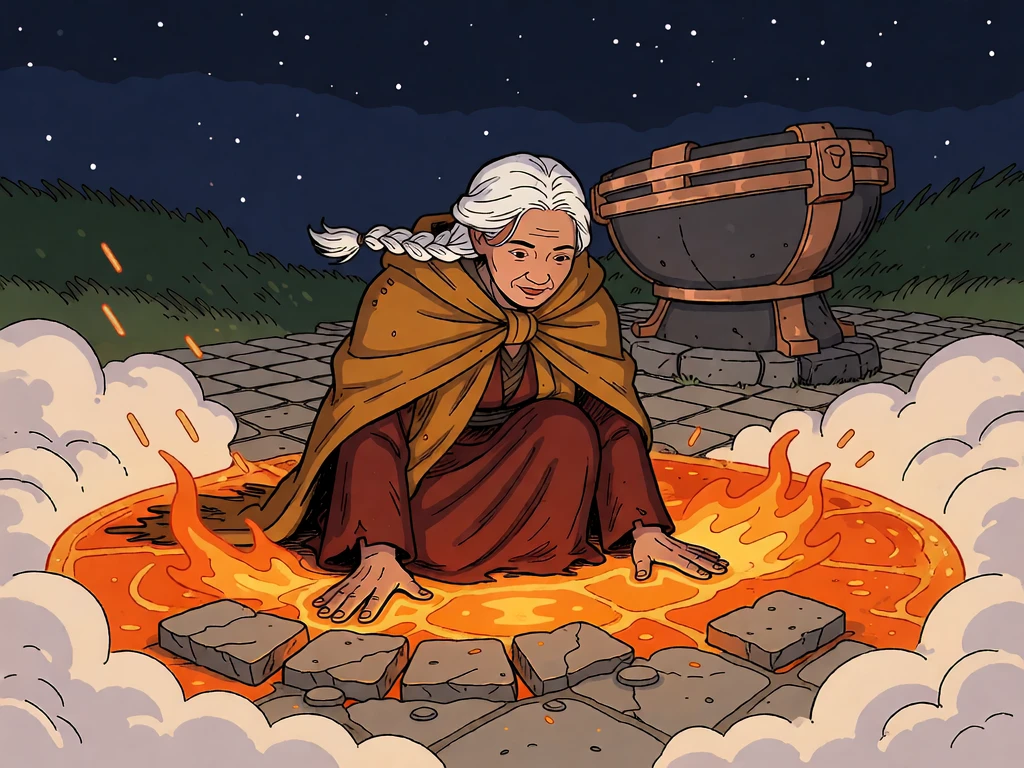
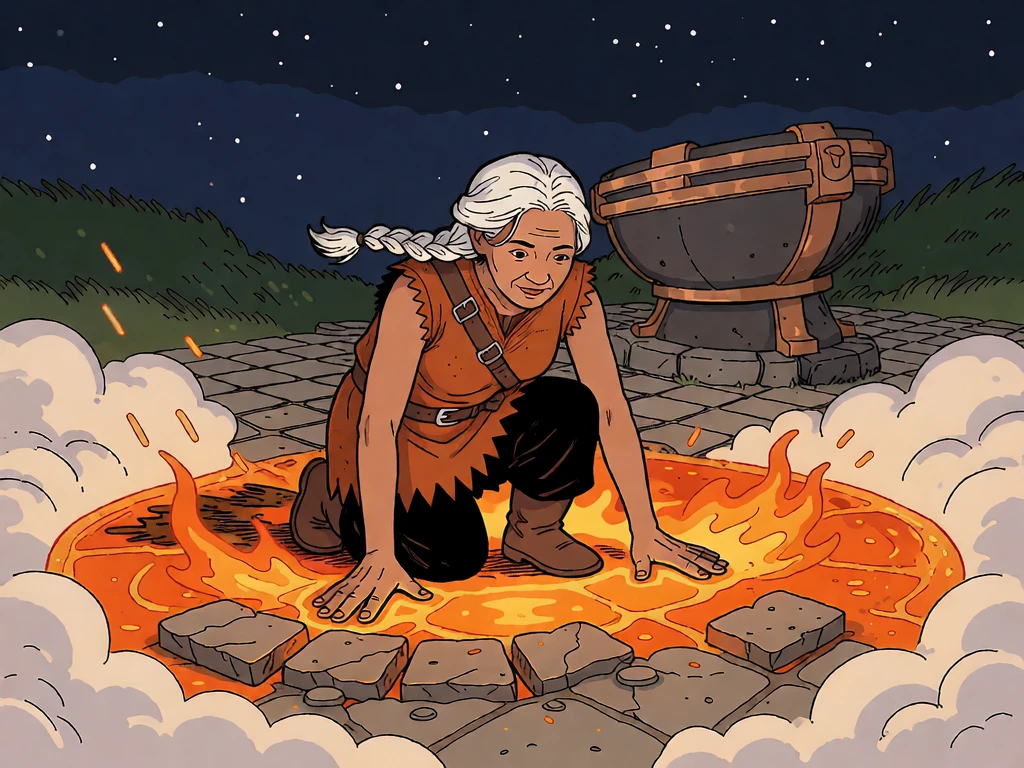
Landing pictures: Hesta in her gear; the villagers whole, before her house and the lake
Claude-Session: https://claude.ai/code/session_01JTmPYBGE5RJi7qTbK5Qior

diff --git a/CREDITS.md b/CREDITS.md
@@ -15,7 +15,7 @@ subscription-only billing so no Spark was spent. Sources are in the project file
 | faces/&lt;who&gt;-&lt;mood&gt;.webp (story portraits: Hesta 3 moods, Lumi 6, Rook 4, Nell 6, Sefa 7, Kes 5; Kes's are drafts from the cast art thread, `sogni/lanternfall/production/kes/game/`, 2026-11-24) | Mood faces (Lumi's calling, grudging and delighted redrawn closed-mouth on 2026-11-23) from the cast art thread (project files `sogni/lanternfall/production/<who>/face-*.png`, 2026-11-23), resized to 160 px WebP |
 | stills/r8-{1,2,7,10,11a,11b}.webp (run 8's reaction stills: Tilda steady, Tilda and Rook at the far well, Rook asking for Granny (redrawn the same day, more concerned, at Ladi's word), the count book, Tilda asking, Rook with no answer) | Drafts drawn by the gameplay thread with krea2_identity_edit_v1_2 on Sogni, 2026-11-24, on Ladi's plan, 0 Spark (project files `gameplay/stills/run8/`), 1024 by 768 as delivered. | The stills panel over the Sieve (`src/engine/stills.ts`) |
 | stills/r8-5.webp, stills/r8-6.webp (run 8's reaction stills at the tug: Tilda lost with Rook uneasy behind her; Tilda watching, Rook looking down) | Drawn by the cutscene thread on Sogni, 2026-11-24, on Ladi's plan; Ladi approved them at 10:44 AM ("Faces look good"). Every step with krea2_identity_edit_v1_2 on the subscription, 0 Spark, as that thread confirmed from its render logs (Tilda alone, Rook added behind her, the face changes on head crops), from the project's own persona sheets lf-tilda and lf-rook-high-grounds; the face transplants, Tilda's chalk smudge and Rook's enlarging are its own script and hand work, no model (sources `sogni/lanternfall/production/story/run8-stills/s5-closer.png` and `s6-closer.png`; delivered in project files `gameplay/stills/run8/`), 1024 by 768 as delivered | The stills panel over the Sieve: 5 as the tug takes hold, 6 cross-fading over it when the tug ends |
-| stills/r6-land-{1,2,3}.webp (run 6's landing pictures: the crowd looking up with Lumi in front, the comet over the island, Hesta landing in the glass) | Drafts drawn by the gameplay thread on Sogni, 2026-11-24, on Ladi's plan, 0 Spark, all with krea2_identity_edit_v1_2; picture 2 redrawn the same day from the game's own island; picture 1 redrawn on 2026-11-25 by the cutscene thread with the cast from their personas (`r6-land-1-cast`, not seen by Ladi yet); picture 3 redrawn on 2026-11-25 by the cutscene thread on Ladi's notes, Hesta alone on the Kindling ground drawn from the game's own map, close, with a wide crater (`r6-land-3-big`, 0 Spark, not seen by Ladi yet) (project files `gameplay/stills/run6/`), 1024 by 768 as delivered | The held pictures of the landing between runs 6 and 7; picture 2 shows only with `?stillsonly`, since the comet now falls on the map |
+| stills/r6-land-{1,2,3}.webp (run 6's landing pictures: the crowd looking up with Lumi in front, the comet over the island, Hesta landing in the glass) | Drafts drawn by the gameplay thread on Sogni, 2026-11-24, on Ladi's plan, 0 Spark, all with krea2_identity_edit_v1_2; picture 2 redrawn the same day from the game's own island; picture 1 redrawn on 2026-11-25 by the cutscene thread with the cast from their personas (`r6-land-1-cast`, not seen by Ladi yet); picture 3 redrawn on 2026-11-25 by the cutscene thread on Ladi's notes, Hesta alone on the Kindling ground drawn from the game's own map, close, with a wide crater, in her Hesta Gear look (`r6-land-3-gear`, 0 Spark, not seen by Ladi yet) (project files `gameplay/stills/run6/`), 1024 by 768 as delivered | The held pictures of the landing between runs 6 and 7; picture 2 shows only with `?stillsonly`, since the comet now falls on the map |
 | stills/alarm/**/*.webp (the alarm before run 6 as moving layers: the kitchen with its lamp and three cups apart; the falls (redrawn 2026-11-25 by the cutscene thread from the game's own map with Maudie, Orrin and Moth from their personas, `alarm2-falls-map`, on Ladi's note, not seen by Ladi yet); the Kindling ground close with its fire strong, low, in embers and out, drawn from the game's own story/kindling-ring.webp; and in shot4/ the island going down: sky, five layers of cloud, the island cut out with its heart bright and dim, a strip of waterfall, four rocks), stills/r6-alarm-5.webp (Lumi at the door, worried) and stills/r7-end-1.webp (the island clear of the cloud; redrawn 2026-11-25 by the cutscene thread over a capture of the game's own island, `r7-end-1-map`, on Ladi's note, 0 Spark as that thread reports, not seen by Ladi yet) | Drafts drawn by the gameplay thread on Sogni, 2026-11-24, on Ladi's plan, 0 Spark, with krea2_identity_edit_v1_2, the island drawn from the game's own (project files `gameplay/stills/run6/` and `gameplay/stills/run6/alarm-layers/`); the layers turned from PNG to WebP here, same sizes | The alarm's five shots before run 6 (`?noalarm` leaves them out) and the picture at the end of run 7. The alarm's sparks are drawn in the page, and its sounds (bell, timbers, falls, far-off voices, the low roll, rock breaking) are made in the page, no files |
 | stills/alarm/shot4/{island-dim,island-bright,waterfall-strip,debris-1..4}.webp (the alarm's last shot, redrawn so the houses, the landing with its skiff and the lake sit where they are on the map, with the falls down the near face) | Redrawn by the gameplay thread on Sogni, 2026-11-24, straight over a capture of the game's own home island made here (project files `build/home-island-horseshoe/whole/2-day-side.png`); Ladi approved the shot at 11:30 AM ("Shot 4 Descent looks good", draft 5). Model and cost as that thread's other alarm layers (the row above); turned from PNG to WebP here, same sizes; on 2026-11-25 the cutscene thread painted the five small figures out of island-dim and island-bright at Ladi's request (the shot is too wide for people), same size and alpha (`production/story/run6-stills/layers4/nopeople/`) | The island going down, the last shot of the alarm before run 6 |
 | models/rook.glb, lumi.glb, hesta.glb, wick.glb, moth.glb, nell.glb, sefa.glb (story characters) | The cast art thread's rigged and animated models (`production/<who>/<who>-rigged.glb`, 2026-11-23: idle, walk, run, pull, push clips), shipped as delivered (quantised, no meshopt): 570 to 815 KB each |
